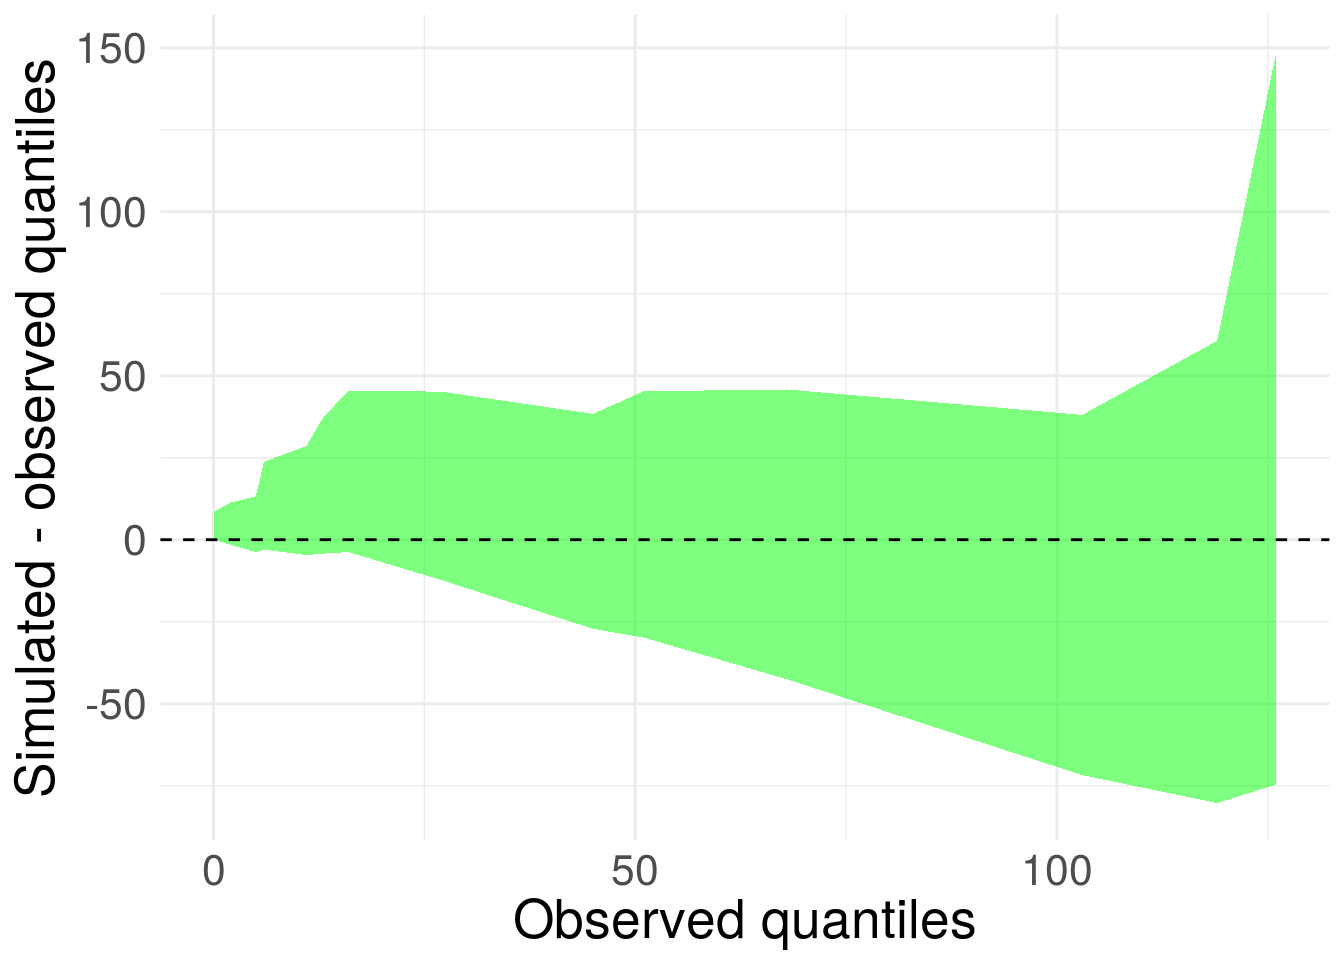
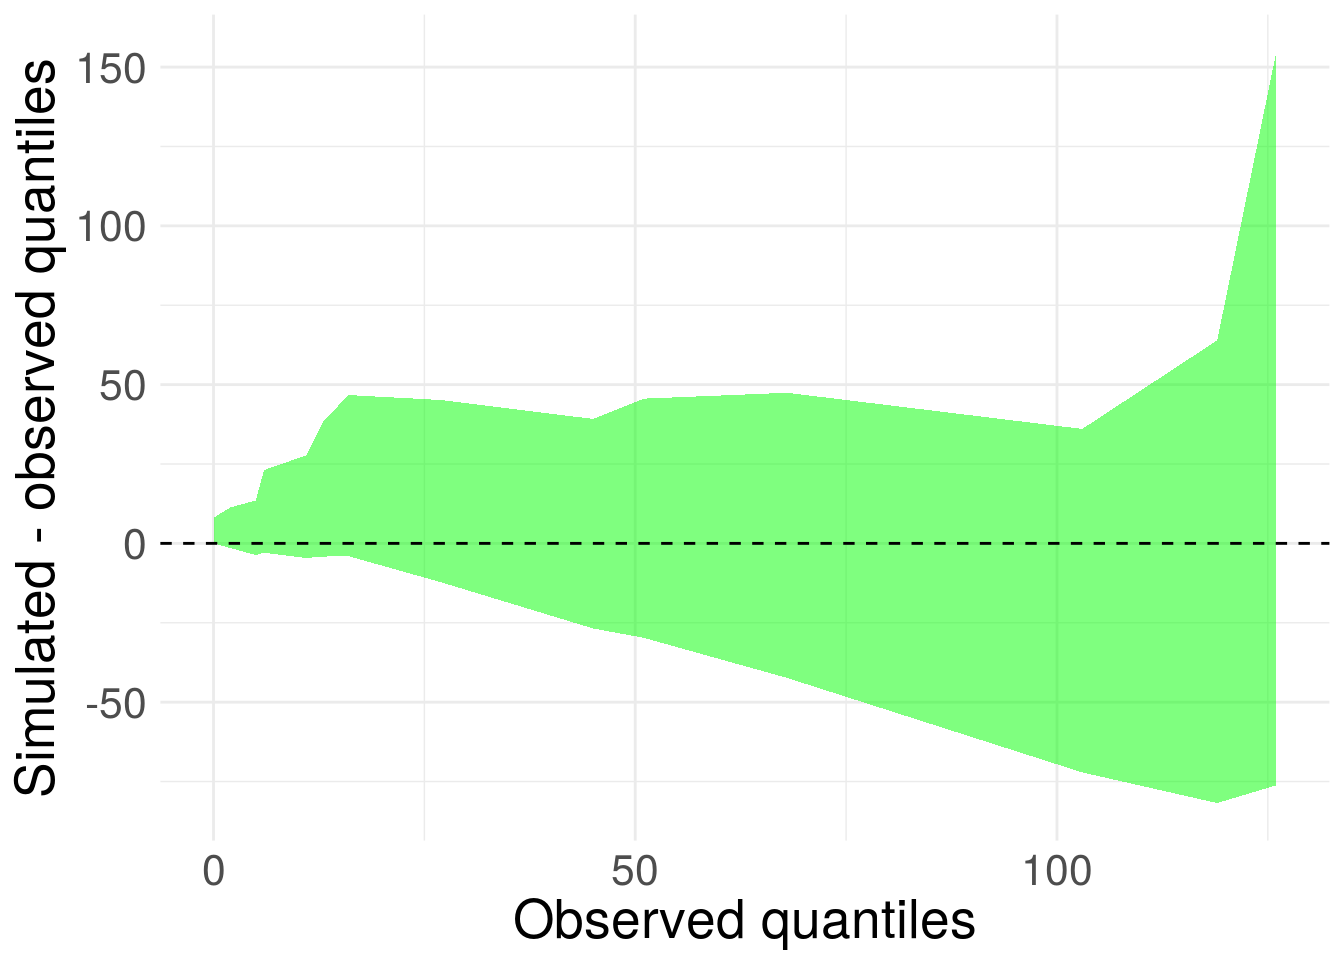
added post about vigneete, deleted abc post for now

diff --git a/2018/03/06/the-abcs-of-conjugacy/index.html b/2018/03/06/the-abcs-of-conjugacy/index.html
@@ -1,0 +1,230 @@
+<!DOCTYPE html>
+<html lang="en-us">
+  <head>
+    <meta charset="utf-8">
+<meta name="viewport" content="width=device-width, initial-scale=1.0">
+<meta name="generator" content="Hugo 0.36.1" />
+
+
+<title>The ABCs of conjugacy - A Hugo website</title>
+<meta property="og:title" content="The ABCs of conjugacy - A Hugo website">
+
+
+
+  
+
+
+
+
+
+
+
+
+<link href='//cdn.bootcss.com/highlight.js/9.11.0/styles/github.min.css' rel='stylesheet' type='text/css' />
+
+
+
+<link rel="stylesheet" href="/css/fonts.css" media="all">
+<link rel="stylesheet" href="/css/main.css" media="all">
+
+
+
+  </head>
+  <body>
+    <div class="wrapper">
+      <header class="header">
+        <nav class="nav">
+  <a href="/" class="nav-logo">
+    <img src="/images/sims_plot.jpeg"
+         width="50"
+         height="50"
+         alt="Logo">
+  </a>
+
+  <ul class="nav-links">
+    
+    <li><a href="/about/">About</a></li>
+    
+    <li><a href="https://github.com/silastittes">GitHub</a></li>
+    
+    <li><a href="https://scholar.google.com/citations?user=LxGAurUAAAAJ&amp;hl=en">Google Scholar</a></li>
+    
+  </ul>
+</nav>
+
+      </header>
+
+
+<main class="content" role="main">
+
+  <article class="article">
+    
+    <span class="article-duration">4 min read</span>
+    
+
+    <h1 class="article-title">The ABCs of conjugacy</h1>
+
+    
+    <span class="article-date">2018/03/06</span>
+    
+
+    <div class="article-content">
+      <p>NOTE: This post – like most my posts – is all about learning by writing. If something (or everything) is wrong, I would love to hear your thoughts about why.</p>
+<p>Defining a likelihood is hard for some problems. For example, estimating the population mutation parameter, <span class="math inline">\(\theta\)</span> (<span class="math inline">\(4N_{e}\mu\)</span> for diploids, or <span class="math inline">\(2N_{e}\mu\)</span> haploids). How do we define the likelihood for <span class="math inline">\(\theta\)</span>? There are exact solutions for simple cases <span class="citation">(Nielsen and Slatkin 2013)</span>, but the moment we start adding biologically realistic properties like migration and selection, things get hairy and hard to generalize – even using computational approximations (a computer still needs some function of <span class="math inline">\(\theta\)</span> to compute the right hand side of <span class="math inline">\(p(y \mid \theta)\)</span>). Can we avoid defining a likelihood and but still get predictions with probablistic uncertainty about our parameters of interest? Approximate Bayesian Computation (ABC) is designed for just that purpose.</p>
+<div id="abc" class="section level2">
+<h2>ABC</h2>
+<p>As with any Bayesian approach, the goal is to infer the conditional probability (posterior) of the model given the data. For the case of ABC, we are doing so without an explicit definition of the likelihood.</p>
+<p>The general recipe for ABC is:</p>
+<ul>
+<li><p>Draw parameter values from prior(s)</p></li>
+<li><p>Simulate data given those parameters</p></li>
+<li><p>Compare the observed data to the simulated data over some type of summary statistic(s).</p></li>
+<li><p>Reject parameter values (or combinations of values if we have more than one parameter) that produce summary statistics for simulated data that are too different from the summaries of the observed data, where “too different” must be defined with some metric that makes sense according to the computed statistics.</p></li>
+</ul>
+<p>To verify this works, let’s generate some data, approximate the posterior using ABC, and compare it to the exact posterior using conjugacy.</p>
+</div>
+<div id="the-data" class="section level2">
+<h2>The data</h2>
+<p>Let’s assume we’ve collected some count data, which is well described by the Poisson distrbution. Plenty of examples, but I’ll let you imagine your own scenerio.</p>
+<p>We can generate such data, choosing the Poisson’s parameter value <span class="math inline">\(\lambda\)</span> from a gamma distribution:</p>
+<pre class="r"><code>N &lt;- 54
+pr_shape &lt;- 2
+pr_rate &lt;- 1/2
+
+(λ &lt;- rgamma(1, shape = pr_shape, rate = pr_rate))</code></pre>
+<pre><code>## [1] 1.606605</code></pre>
+<pre class="r"><code>head(y &lt;- rpois(N, lambda = λ))</code></pre>
+<pre><code>## [1] 1 1 0 0 1 1</code></pre>
+<p>The exponential family of probability distribution functions all have conjugate priors, which means the posterior will be the same type of distribution as the prior. For simple one parameter models, the exact posterior can be computed given specific values for the prior(s).</p>
+<p><a href="https://en.wikipedia.org/wiki/Conjugate_prior">This wikipedia page</a> does a nice job describing conjugacy, and providing the formulas for computing posteriors using conjugacy. For a Poisson, the conjugate prior is Gamma distributed. The posterior distribution for <span class="math inline">\(\lambda\)</span> can be computed by updating the <span class="math inline">\(\alpha\)</span> and <span class="math inline">\(\beta\)</span> parameter values of a Gamma following:</p>
+<p><span class="math display">\[\alpha&#39; = \alpha + \sum_{i=1}^{n} x_i\]</span> <span class="math display">\[\beta&#39; = \beta + n\]</span> Where <span class="math inline">\(x\)</span> is the vector of observed values, and n is the number of observations.</p>
+<p>Here’s a simple function to compute the updated parameters given values for the priors:</p>
+<pre class="r"><code>gamma_primes &lt;- function(x, alpha, beta){
+  alpha_prime &lt;- alpha + sum(x)
+  beta_prime &lt;- beta + length(x)
+  primes &lt;- c(alpha_prime, beta_prime)
+  names(primes) &lt;- c(&quot;alpha&quot;,&quot;beta&quot;)
+  primes
+}</code></pre>
+<p>Using this function with our data (and the same prior values used to generate the data):</p>
+<pre class="r"><code>(gamma_values &lt;- gamma_primes(y, alpha = pr_shape, beta = pr_rate))</code></pre>
+<pre><code>## alpha  beta 
+##  83.0  54.5</code></pre>
+<pre class="r"><code>x &lt;- seq(0, max(y), length.out = 200)
+plot(x,
+  dgamma(x,
+         shape = gamma_values[&quot;alpha&quot;], 
+         rate = gamma_values[&quot;beta&quot;]
+  ), 
+  type = &quot;l&quot;,
+  col = &quot;blue&quot;
+)
+
+lines(x,
+  dgamma(x,
+         shape = pr_shape, 
+         rate = pr_rate
+  ),
+  col = &quot;red&quot;
+)</code></pre>
+<p><img src="/post/2018-03-06-the-abcs-of-conjugacy_files/figure-html/unnamed-chunk-5-1.png" width="672" /></p>
+<pre class="r"><code>abs_diff &lt;- 1e-3
+obs_mean &lt;- mean(y)
+obs_var &lt;- var(y)
+
+reps &lt;- 1e5
+
+aprox_post &lt;- 1:reps %&gt;% purrr::map_dbl(~{
+  prior &lt;- rgamma(n = 1, shape = pr_shape, rate = pr_rate)
+  sim_data &lt;- rpois(N, lambda = prior)
+  match &lt;- abs(mean(sim_data) - obs_mean)
+  #cbind(prior, match) %&gt;% as_tibble()
+  ifelse(match &lt; abs_diff, prior, NA)
+})
+
+hist(aprox_post, freq = F)
+
+x &lt;- seq(0, max(y), length.out = 200)
+lines(x,
+  dgamma(x,
+         shape = gamma_values[&quot;alpha&quot;], 
+         rate = gamma_values[&quot;beta&quot;]
+  ), 
+  type = &quot;l&quot;,
+  col = &quot;blue&quot;
+)</code></pre>
+<p><img src="/post/2018-03-06-the-abcs-of-conjugacy_files/figure-html/unnamed-chunk-6-1.png" width="672" /></p>
+</div>
+<div id="references" class="section level2 unnumbered">
+<h2>References</h2>
+<div id="refs" class="references">
+<div id="ref-nielsen2013introduction">
+<p>Nielsen, Rasmus, and Montgomery W.. Slatkin. 2013. <em>An Introduction to Population Genetics: Theory and Applications</em>. Sinauer Associates.</p>
+</div>
+</div>
+</div>
+
+    </div>
+  </article>
+
+  
+<section id="comments">
+  <div id="disqus_thread"></div>
+  <script>
+  var disqus_config = function () {
+  
+  };
+  (function() {
+    var inIFrame = function() {
+      var iframe = true;
+      try { iframe = window.self !== window.top; } catch (e) {}
+      return iframe;
+    };
+    if (inIFrame()) return;
+    var d = document, s = d.createElement('script');
+    s.src = '//silastittes.disqus.com/embed.js'; s.async = true;
+    s.setAttribute('data-timestamp', +new Date());
+    (d.head || d.body).appendChild(s);
+  })();
+  </script>
+  <noscript>Please enable JavaScript to view the <a href="https://disqus.com/?ref_noscript">comments powered by Disqus.</a></noscript>
+</section>
+
+
+
+</main>
+
+      <footer class="footer">
+        
+        
+
+          
+            <a href="https://gohugo.io/" class="footer-links-kudos">Made with <img src="/images/hugo-logo.png" width="22" height="22"></a>
+          </li>
+        </ul>
+      </footer>
+
+    </div>
+    
+
+
+
+<script src="//cdn.bootcss.com/highlight.js/9.11.0/highlight.min.js"></script>
+
+
+
+<script src="//cdn.bootcss.com/highlight.js/9.11.0/languages/r.min.js"></script>
+<script src="//cdn.bootcss.com/highlight.js/9.11.0/languages/yaml.min.js"></script>
+<script>hljs.configure({languages: []}); hljs.initHighlightingOnLoad();</script>
+
+
+
+    
+<script src="/js/math-code.js"></script>
+<script async src="//cdn.bootcss.com/mathjax/2.7.1/MathJax.js?config=TeX-MML-AM_CHTML"></script>
+
+
+    
+  </body>
+</html>
+

diff --git a/2017/08/30/prius/index.html b/2017/08/30/prius/index.html
@@ -135,9 +135,12 @@ plot(xseq, dgamma(xseq, shape = 1, scale = 1), type = &quot;l&quot;, lwd = 2,
   pr_scale = 1
   )
 
+
 stan_fit &lt;- sampling(
   object = stan_exp,
-  data = stan_in
+  data = stan_in #, 
+  #iter = 1000,
+  #thin = 100
   )
 
 print(stan_fit)</code></pre>
@@ -146,10 +149,10 @@ print(stan_fit)</code></pre>
 ## post-warmup draws per chain=1000, total post-warmup draws=4000.
 ## 
 ##        mean se_mean   sd   2.5%    25%    50%    75%  97.5% n_eff Rhat
-## beta   0.03    0.00 0.01   0.02   0.02   0.03   0.03   0.04  1427    1
-## lp__ -82.16    0.02 0.71 -84.15 -82.31 -81.89 -81.71 -81.65  1949    1
+## beta   0.03    0.00 0.01   0.02   0.02   0.03   0.03   0.04  1396    1
+## lp__ -82.17    0.02 0.74 -84.26 -82.32 -81.89 -81.71 -81.65  1673    1
 ## 
-## Samples were drawn using NUTS(diag_e) at Sat Feb 17 08:41:38 2018.
+## Samples were drawn using NUTS(diag_e) at Thu Jun 14 11:39:52 2018.
 ## For each parameter, n_eff is a crude measure of effective sample size,
 ## and Rhat is the potential scale reduction factor on split chains (at 
 ## convergence, Rhat=1).</code></pre>
@@ -172,11 +175,11 @@ exp_post %&gt;% data.frame() %&gt;%
 <pre class="r"><code>cred1 &lt;- quantile(1/exp_post$beta, c(0.025, 0.975))
 cred1</code></pre>
 <pre><code>##     2.5%    97.5% 
-## 23.12586 58.35686</code></pre>
+## 22.54956 58.28919</code></pre>
 <p>So there’s a 95% chance the expected wait time between Prius spottings is between 23 and 58 seconds.</p>
 <p>We can also easily see the probability that the expected wait time is less than, say, one minute.</p>
 <pre class="r"><code>mean(1/exp_post$beta &lt; 60)</code></pre>
-<pre><code>## [1] 0.97875</code></pre>
+<pre><code>## [1] 0.98025</code></pre>
 <p>Also valuable in a Bayesian framework is the ability to conduct posterior predictive checks. We can use posterior draws of the rate parameter, and generate simulated data from this exponential distribution. Perhaps the wait times have more variation than the exponential distribution allows for. We simply need to compare the observed variation to that of the simulated data sets:</p>
 <pre class="r"><code>post_pred &lt;- exp_post$beta %&gt;% map(~rexp(n_obs, rate = .x))
 pred_var &lt;- post_pred %&gt;% map_dbl(~var(.x))
@@ -186,7 +189,7 @@ hist(pred_var,main = &quot;&quot;,
 abline(v = var(wt_times$wait), lwd = 2, col = &quot;green&quot;)</code></pre>
 <p><img src="/post/2018-02-16-prius_files/figure-html/unnamed-chunk-12-1.png" width="80%" style="display: block; margin: auto;" /></p>
 <pre class="r"><code>mean(pred_var &gt; var(wt_times$wait))</code></pre>
-<pre><code>## [1] 0.2425</code></pre>
+<pre><code>## [1] 0.2365</code></pre>
 <p>Figure 5. Distribution of variances from posterior predictive distributions, green line is the sample variance.</p>
 <p>There’s a ~24% probability of simulated data having variation greater than the observed. This isn’t too far off. The nearer to 50%, the more consistent the simulated data and observed. The exponential distribution model as-is seems fairly adequate.</p>
 <p>We can also get some idea of the max wait time conditional of the data.</p>
@@ -198,8 +201,8 @@ hist(pred_max,
 abline(v = max(wt_times$wait), lwd = 2, col = &quot;green&quot;)</code></pre>
 <p><img src="/post/2018-02-16-prius_files/figure-html/unnamed-chunk-13-1.png" width="80%" style="display: block; margin: auto;" /></p>
 <pre class="r"><code>quantile(pred_max/60, c(0.025, 0.975))</code></pre>
-<pre><code>##     2.5%    97.5% 
-## 0.856268 4.577784</code></pre>
+<pre><code>##      2.5%     97.5% 
+## 0.8303172 4.6783851</code></pre>
 <p>Figure 6. Distribution of maximum wait times from posterior predictive distributions, green line is the sample maximum wait time.</p>
 <p>Wow, the model predicts wait times should pretty much always be less than five minutes. That’s a lot of Prii flashing past your face!</p>
 <p>We can also visually assess the simulated and observed distribution shapes by constructing quantile-quantile plots. I find it a bit easier to see departures by looking at the observed quantiles versus the difference in observed and simulated quantiles:</p>
@@ -252,7 +255,7 @@ abline(v = mean(wt_times$wait), lwd = 2, col = &quot;green&quot;)</code></pre>
 <pre class="r"><code>qnts &lt;- seq(0,1, length.out = 100)
 quantile(boots, c(0.025, 0.975))</code></pre>
 <pre><code>##     2.5%    97.5% 
-## 17.94118 57.76471</code></pre>
+## 18.05882 57.06029</code></pre>
 <pre class="r"><code>qqplot(boots, 1/exp_post$beta, 
        xlab = &quot;Bootstrap quantiles&quot;,
        ylab = &quot;Bayesian quantiles&quot;, 

diff --git a/2018/06/14/performr-vignette-is-live/index.html b/2018/06/14/performr-vignette-is-live/index.html
@@ -6,8 +6,8 @@
 <meta name="generator" content="Hugo 0.36.1" />
 
 
-<title>About - A Hugo website</title>
-<meta property="og:title" content="About - A Hugo website">
+<title>performr vignette is live - A Hugo website</title>
+<meta property="og:title" content="performr vignette is live - A Hugo website">
 
 
 
@@ -54,17 +54,20 @@
 
   <article class="article">
     
+    <span class="article-duration">1 min read</span>
+    
 
-    <h1 class="article-title">About</h1>
+    <h1 class="article-title">performr vignette is live</h1>
 
+    
+    <span class="article-date">2018/06/14</span>
     
 
     <div class="article-content">
-      <p>I&rsquo;m Silas Tittes, a PhD student at CU Boulder studying with <a href="https://www.colorado.edu/lab/emery/">Nancy Emery</a> and <a href="https://nkane.weebly.com/index.html">Nolan Kane</a>. My research focuses on the development and application of methods to learn about adaptive evolution on multiple spatial and temporal scales. Please see my <a href="https://github.com/silastittes">GitHub</a> and <a href="https://scholar.google.com/citations?user=LxGAurUAAAAJ&amp;hl=en">Google Scholar</a> pages to learn more. I hope this blog is useful and entertaining to others &ndash; I see it as a space to explore ideas and describe the state of my knowledge/thinking about a given topic at the time of writing.</p>
-
-<p>In my free time, I like to listen to podcasts, read books, and hang out with my son, Felix.</p>
-
-<p>Endless gratitude to <a href="https://github.com/yihui/hugo-lithium-theme">Yihui Xie</a> for the <a href="https://github.com/rstudio/blogdown"><strong>blogdown</strong></a> package, which made this site (and so many more of my efforts) possible.</p>
+      <p><a href="https://silastittes.github.io/performr/">Skip to the goods</a>.</p>
+<p>About time I dusted off the cobwebs on this ol blog.</p>
+<p>I’m working hard to complete revisions on my first chapter. In preperation, I’ve made a <a href="https://silastittes.github.io/performr/">vignette</a> to walk through how to use my R package <code>perfomr</code>, which provides the core modeling and functions that the manuscript relies on. It comes with a way to simulate data, so give it a whirl.</p>
+<p>I’ve been trying to learn more about neural networks, so maybe I’ll try to make a post about that (or anything really) soon … ish.</p>
 
     </div>
   </article>

diff --git a/index.html b/index.html
@@ -58,6 +58,16 @@
   
   <div class="archive">
     
+    <h2 class="archive-title">2018</h2>
+    
+    <article class="archive-item">
+      <a href="/2018/06/14/performr-vignette-is-live/" class="archive-item-link">performr vignette is live</a>
+      <span class="archive-item-date">
+        2018/06/14
+      </span>
+    </article>
+    
+    
     <h2 class="archive-title">2017</h2>
     
     <article class="archive-item">

diff --git a/post/index.html b/post/index.html
@@ -57,6 +57,16 @@
   
   <div class="archive">
     
+    <h2 class="archive-title">2018</h2>
+    
+    <article class="archive-item">
+      <a href="/2018/06/14/performr-vignette-is-live/" class="archive-item-link">performr vignette is live</a>
+      <span class="archive-item-date">
+        2018/06/14
+      </span>
+    </article>
+    
+    
     <h2 class="archive-title">2017</h2>
     
     <article class="archive-item">
